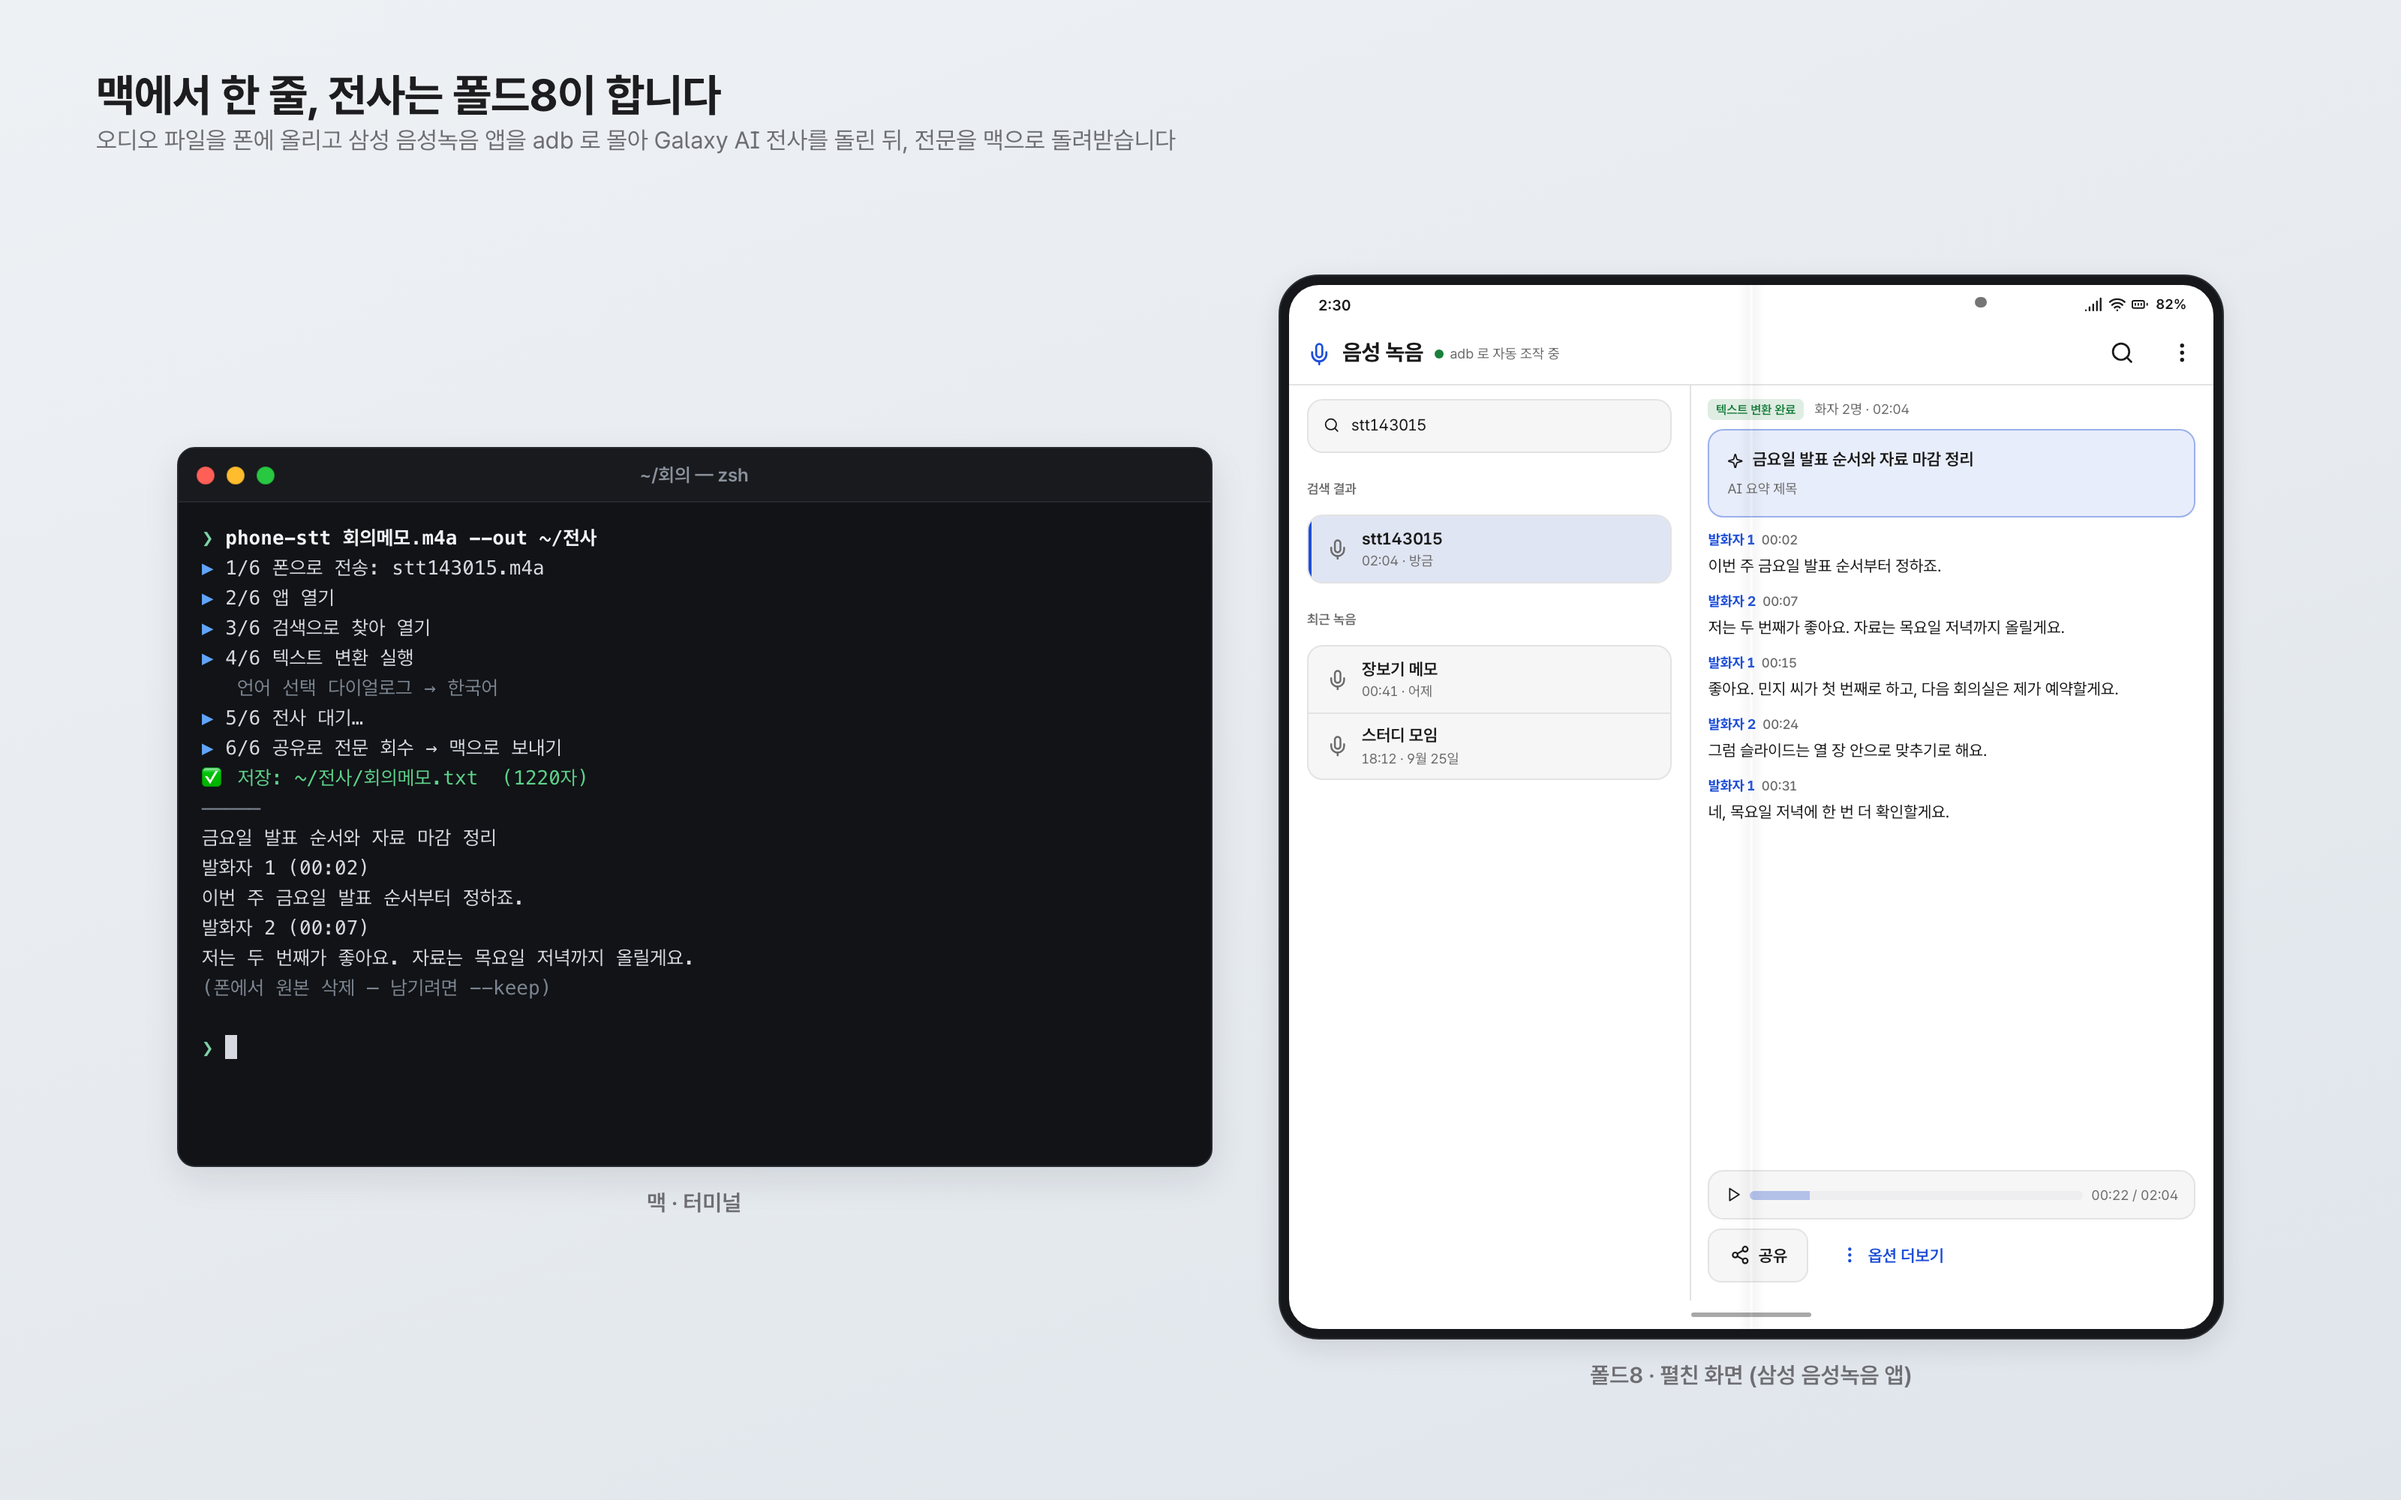
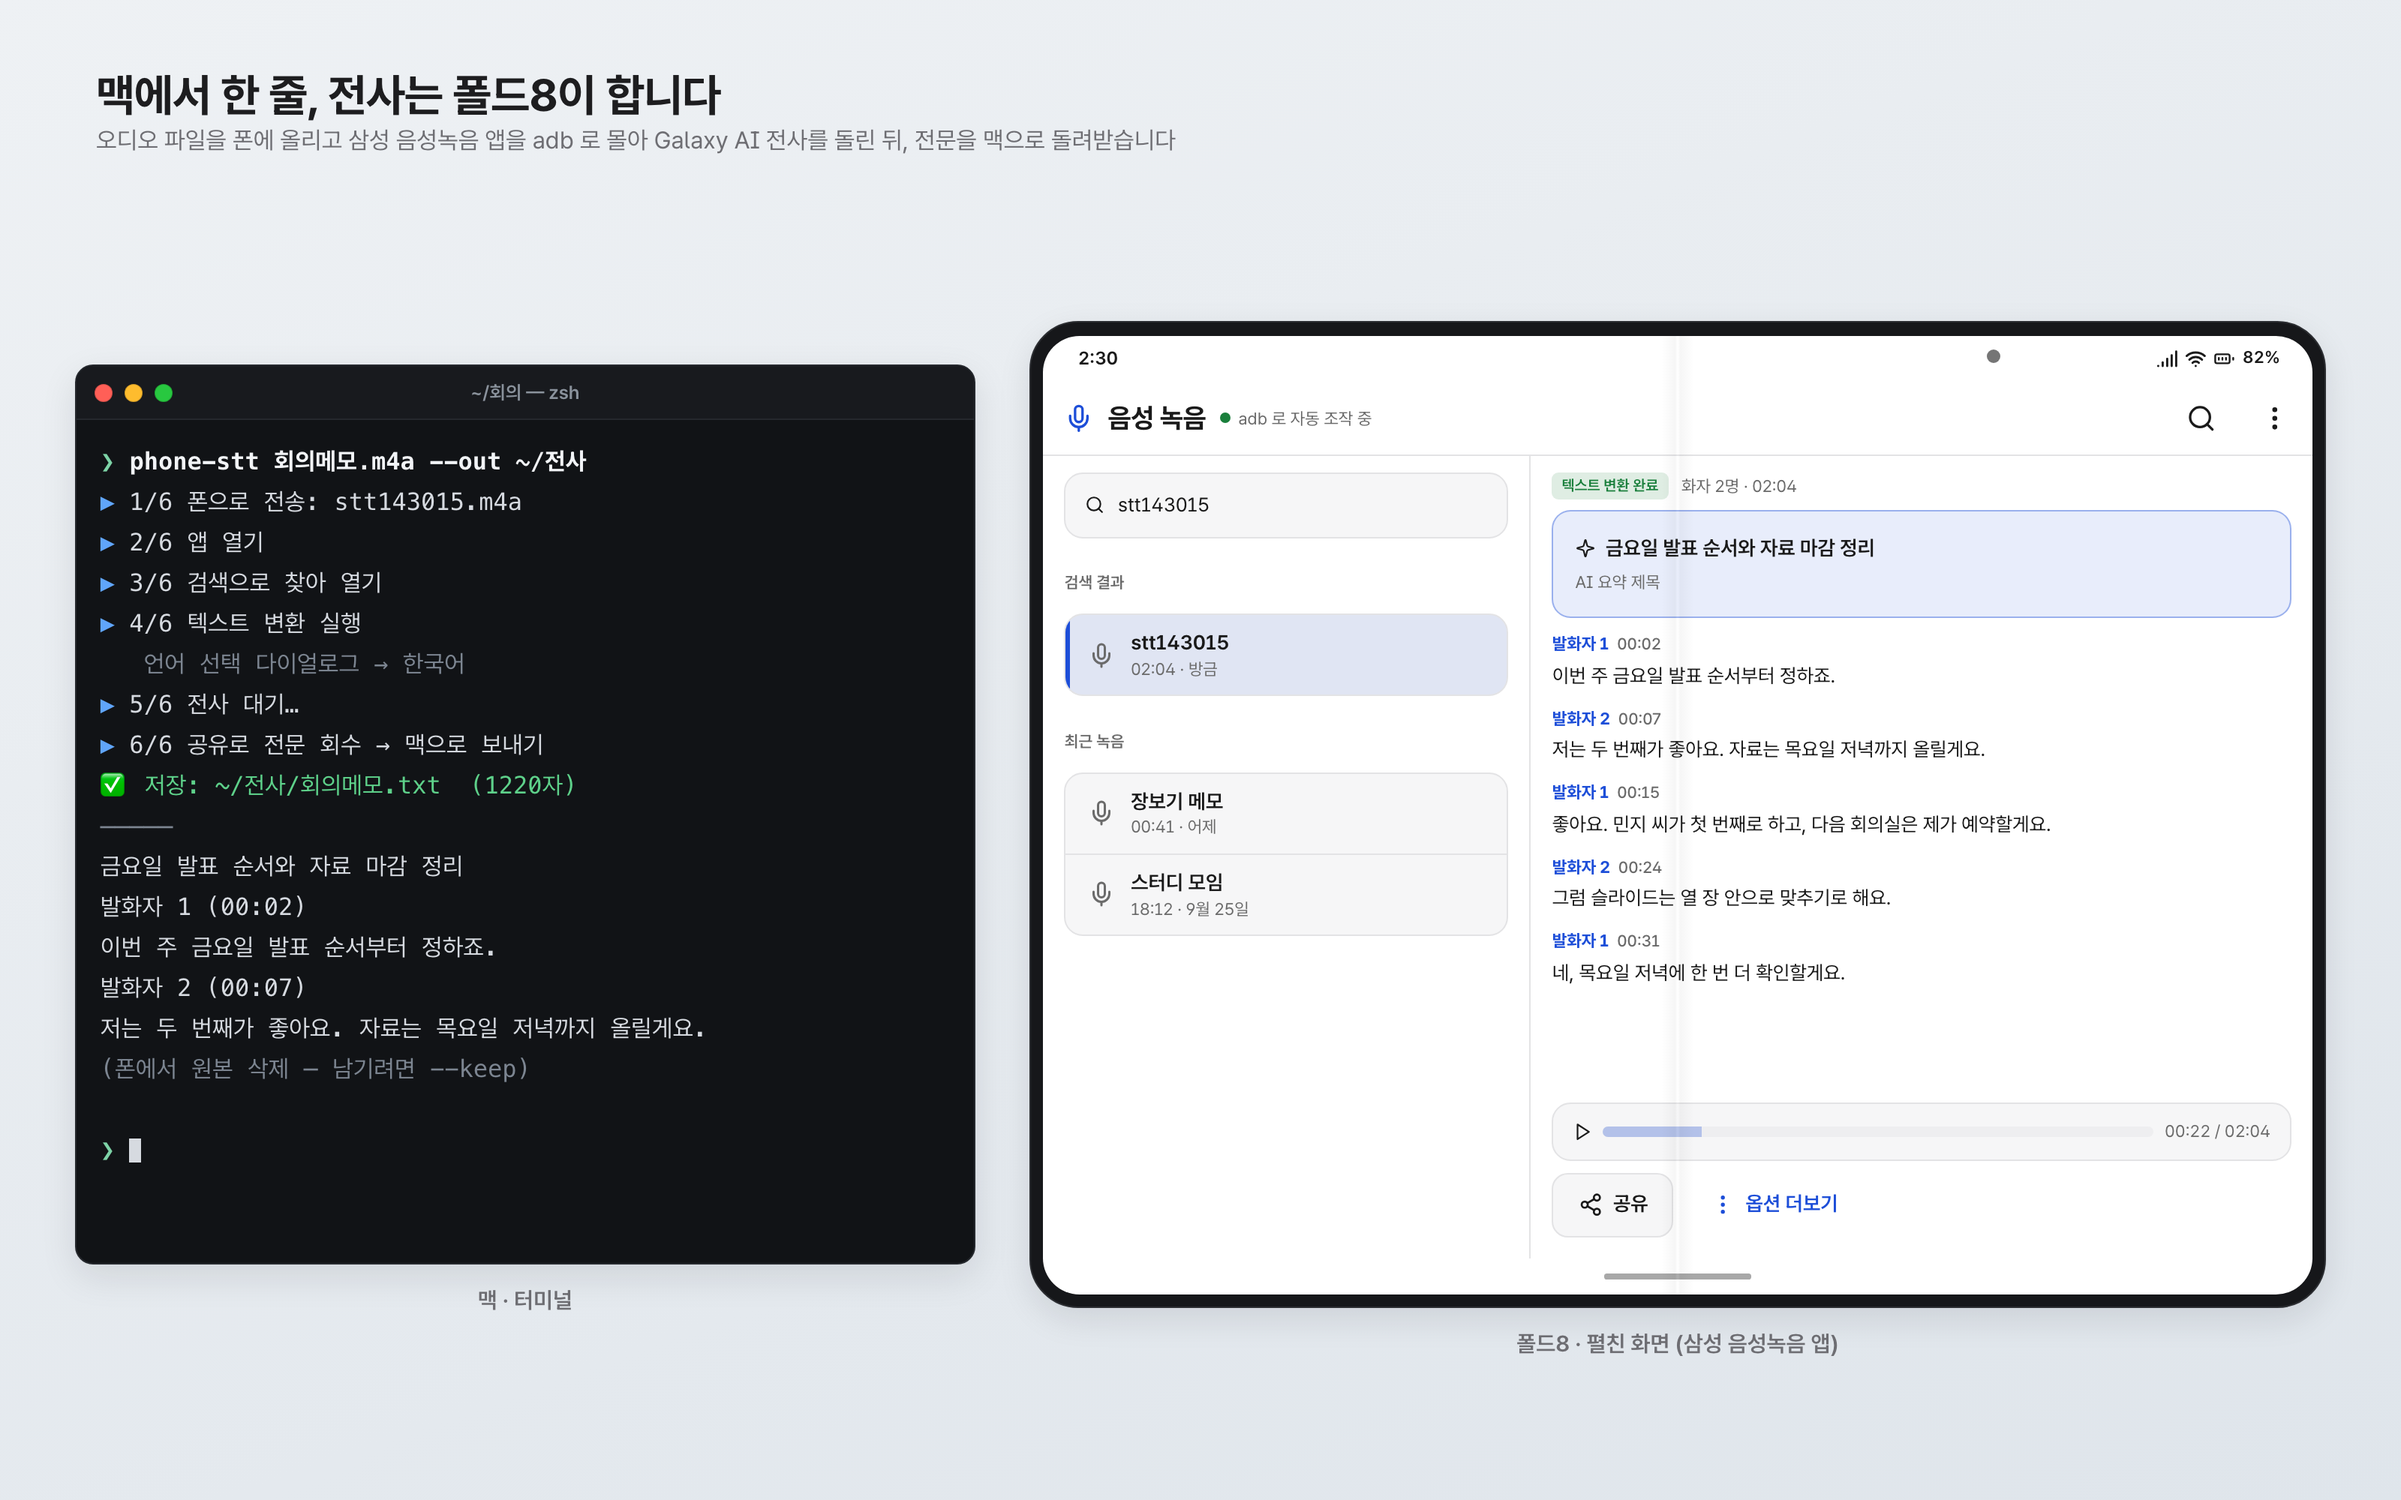
docs: re-render mockups at real Galaxy Z Fold8 ratios
Cover 480x758dp (0.63:1), unfolded 940x710dp (1.32:1 landscape).
Re-laid out hero, queue, share-retrieve and thumbnail; scene 3 recomposed on the 0.63 cover base.

Changed region(s): [[0.0312, 0.186, 0.9688, 0.93], [0.6562, 0.744, 0.7188, 0.806], [0.25, 0.682, 0.2812, 0.713]]

diff --git a/docs/mockups/queue.html b/docs/mockups/queue.html
@@ -8,16 +8,17 @@
 <script src="https://mockup-kit.invalid/kit.js"></script>
 <style>
   .head { position: absolute; top: 44px; left: 64px; right: 64px; }
-  .layout { position: absolute; top: 130px; left: 0; right: 0; bottom: 20px; display: flex; align-items: center; justify-content: center; gap: 72px; }
-  .mac-col { width: 720px; display: flex; flex-direction: column; gap: 20px; }
-  .mac-col .terminal { height: 360px; }
+  .layout { position: absolute; top: 130px; left: 0; right: 0; bottom: 20px; display: flex; align-items: center; justify-content: center; gap: 64px; }
+  .mac-col { width: 700px; display: flex; flex-direction: column; gap: 20px; }
+  .mac-col .terminal { height: 430px; }
+  .mac-col .terminal-body { font-size: 15.5px; line-height: 27px; }
   .aod { background: #050506; color: #D6DAE0; }
   .aod .status-bar { color: #9AA0A8; }
-  .aod-body { flex: 1; display: flex; flex-direction: column; align-items: center; padding-top: 170px; gap: 6px; }
-  .aod-time { font-size: 76px; line-height: 84px; font-weight: 300; letter-spacing: -1px; color: #EDEFF2; }
-  .aod-date { font-size: 16px; color: #9AA0A8; }
-  .aod-charge { margin-top: 26px; display: flex; align-items: center; gap: 8px; font-size: 15px; color: #7DD3A7; }
-  .aod-note { margin-top: auto; margin-bottom: 60px; font-size: 13px; color: #6F767F; text-align: center; line-height: 20px; }
+  .aod-body { flex: 1; display: flex; flex-direction: column; align-items: center; padding-top: 190px; gap: 6px; }
+  .aod-time { font-size: 92px; line-height: 100px; font-weight: 300; letter-spacing: -1px; color: #EDEFF2; }
+  .aod-date { font-size: 18px; color: #9AA0A8; }
+  .aod-charge { margin-top: 26px; display: flex; align-items: center; gap: 8px; font-size: 17px; color: #7DD3A7; }
+  .aod-note { margin-top: auto; margin-bottom: 60px; font-size: 15px; color: #6F767F; text-align: center; line-height: 20px; }
 </style>
 </head>
 <body>
@@ -29,7 +30,7 @@
 
   <div class="layout">
     <div>
-      <div class="fold-cover" style="--zoom:.74">
+      <div class="fold-cover" style="--zoom:.9">
         <div class="screen aod">
           <div class="status-bar" data-time="1:12" data-batt="64"></div>
           <div class="aod-body">

diff --git a/docs/mockups/thumbnail.html b/docs/mockups/thumbnail.html
@@ -13,8 +13,15 @@
   .sub { font-size: 24px; line-height: 36px; color: var(--mac-dim); }
   .pills { display: flex; gap: 10px; flex-wrap: wrap; }
   .pills .chip { font-size: 16px; padding: 8px 14px; height: auto; }
-  .right { position: absolute; right: 70px; top: 0; bottom: 0; display: flex; align-items: center; gap: 24px; }
-  .right .terminal { width: 330px; height: 230px; align-self: flex-end; margin-bottom: 170px; }
+  .right { position: absolute; right: 64px; top: 0; bottom: 0; display: flex; align-items: center; gap: 24px; }
+  .right .terminal { width: 330px; height: 230px; align-self: flex-end; margin-bottom: 150px; }
+  .fold-cover .content { gap: 22px; padding-top: 22px; }
+  .fold-cover .tag { font-size: 14px; padding: 4px 10px; }
+  .fold-cover .card { padding: 20px 22px; }
+  .fold-cover .meta { font-size: 14px; }
+  .fold-cover .card-title { font-size: 21px; }
+  .fold-cover .line { font-size: 19.5px; line-height: 31px; }
+  .fold-cover .spk { font-size: 15.5px; }
   .line { font-size: 14.5px; line-height: 23px; }
   .spk { font-size: 12.5px; font-weight: 700; color: var(--accent); }
 </style>
@@ -36,7 +43,7 @@
 <span class="t-accent">▶</span> 6/6 공유로 전문 회수
 <span class="t-ok">✅ 회의메모.txt (1220자)</span></div>
     </div>
-    <div class="fold-cover" style="--zoom:.72">
+    <div class="fold-cover" style="--zoom:.92">
       <div class="screen">
         <div class="status-bar" data-time="2:30"></div>
         <div class="app-bar">

diff --git a/docs/mockups/scenes/03-phone.html b/docs/mockups/scenes/03-phone.html
@@ -2,15 +2,15 @@
 <html lang="ko">
 <head>
 <meta charset="utf-8">
-<!-- 폴드8 커버 화면 영역(0.72 : 1). 화면 꺼짐(AOD) + 충전 중 -->
-<meta name="shot" content="w=360,h=500,scale=3.6">
+<!-- 폴드8 커버 화면 영역(0.63 : 1, 실기 1248x1972). 화면 꺼짐(AOD) + 충전 중 -->
+<meta name="shot" content="w=360,h=571,scale=3.15">
 <title>장면 3 폰</title>
 <link rel="stylesheet" href="https://mockup-kit.invalid/kit.css">
 <script src="https://mockup-kit.invalid/kit.js"></script>
 <style>
   html, body { margin: 0; }
-  .aod { width: 360px; height: 500px; background: #050506; color: #D6DAE0; display: flex; flex-direction: column; align-items: center; font-family: inherit; }
-  .aod-time { margin-top: 118px; font-size: 96px; line-height: 104px; font-weight: 300; letter-spacing: -2px; color: #EDEFF2; font-variant-numeric: tabular-nums; }
+  .aod { width: 360px; height: 571px; background: #050506; color: #D6DAE0; display: flex; flex-direction: column; align-items: center; font-family: inherit; }
+  .aod-time { margin-top: 150px; font-size: 96px; line-height: 104px; font-weight: 300; letter-spacing: -2px; color: #EDEFF2; font-variant-numeric: tabular-nums; }
   .aod-date { margin-top: 6px; font-size: 22px; color: #A3A9B1; }
   .aod-charge { margin-top: 30px; display: flex; align-items: center; gap: 10px; font-size: 24px; font-weight: 600; color: #7DD3A7; }
 </style>

diff --git a/docs/mockups/share-retrieve.html b/docs/mockups/share-retrieve.html
@@ -8,9 +8,9 @@
 <script src="https://mockup-kit.invalid/kit.js"></script>
 <style>
   .head { position: absolute; top: 44px; left: 64px; right: 64px; }
-  .layout { position: absolute; top: 130px; left: 0; right: 0; bottom: 20px; display: flex; align-items: center; justify-content: center; gap: 48px; }
-  .mac-col { width: 640px; display: flex; flex-direction: column; gap: 20px; }
-  .mac-col .terminal { height: 296px; }
+  .layout { position: absolute; top: 130px; left: 0; right: 0; bottom: 20px; display: flex; align-items: center; justify-content: center; gap: 40px; }
+  .mac-col { width: 600px; display: flex; flex-direction: column; gap: 20px; }
+  .mac-col .terminal { height: 320px; }
   .steps { display: flex; flex-direction: column; gap: 10px; }
   .step { display: flex; gap: 12px; align-items: flex-start; font-size: 15px; line-height: 22px; color: var(--mac-text); }
   .step b { flex: none; width: 26px; height: 26px; border-radius: 13px; display: inline-flex; align-items: center; justify-content: center; background: var(--accent); color: var(--on-accent); font-size: 13px; }
@@ -28,7 +28,7 @@
 
   <div class="layout">
     <div>
-      <div class="fold-open" style="--zoom:.74">
+      <div class="fold-open" style="--zoom:.86">
         <div class="screen">
           <div class="status-bar" data-time="2:34"></div>
           <div class="app-bar">

diff --git a/docs/mockups/hero.html b/docs/mockups/hero.html
@@ -8,9 +8,10 @@
 <script src="https://mockup-kit.invalid/kit.js"></script>
 <style>
   .head { position: absolute; top: 44px; left: 64px; right: 64px; }
-  .layout { position: absolute; top: 130px; left: 0; right: 0; bottom: 20px; display: flex; align-items: center; justify-content: center; gap: 44px; }
-  .mac-col { width: 690px; display: flex; flex-direction: column; }
-  .mac-col .terminal { height: 480px; }
+  .layout { position: absolute; top: 150px; left: 0; right: 0; bottom: 30px; display: flex; align-items: center; justify-content: center; gap: 36px; }
+  .mac-col { width: 600px; display: flex; flex-direction: column; }
+  .mac-col .terminal { height: 600px; }
+  .mac-col .terminal-body { font-size: 16px; line-height: 27px; }
   .line { font-size: 14.5px; line-height: 23px; }
   .spk { font-size: 12.5px; font-weight: 700; color: var(--accent); }
   .ts { font-size: 12px; color: var(--dim); margin-left: 6px; font-weight: 500; }
@@ -53,7 +54,7 @@
 
     <!-- 폴드 펼침: 음성 녹음 앱 -->
     <div>
-      <div class="fold-open" style="--zoom:.74">
+      <div class="fold-open" style="--zoom:.9">
         <div class="screen">
           <div class="status-bar" data-time="2:30"></div>
           <div class="app-bar">

diff --git a/docs/mockups/README.md b/docs/mockups/README.md
@@ -10,4 +10,4 @@ node android-mac-lab/mockup-kit/shot.mjs --batch docs/mockups   # → docs/image
 
 킷 사용법: https://github.com/joonlab/android-mac-lab/tree/main/mockup-kit
 
-`scenes/` 는 README 「실제로 이렇게 씁니다」의 책상 사진에 합성한 화면입니다. 파일마다 배경 사진의 화면 영역 비율(맥 1.60, 폴드8 펼침 가로 1.35, 커버 0.72 등)에 맞춰 캔버스 크기를 정했습니다.
+`scenes/` 는 README 「실제로 이렇게 씁니다」의 책상 사진에 합성한 화면입니다. 파일마다 배경 사진의 화면 영역 비율(맥 1.60, 폴드8 펼침 가로 1.35, 커버 0.63 등)에 맞춰 캔버스 크기를 정했습니다.
